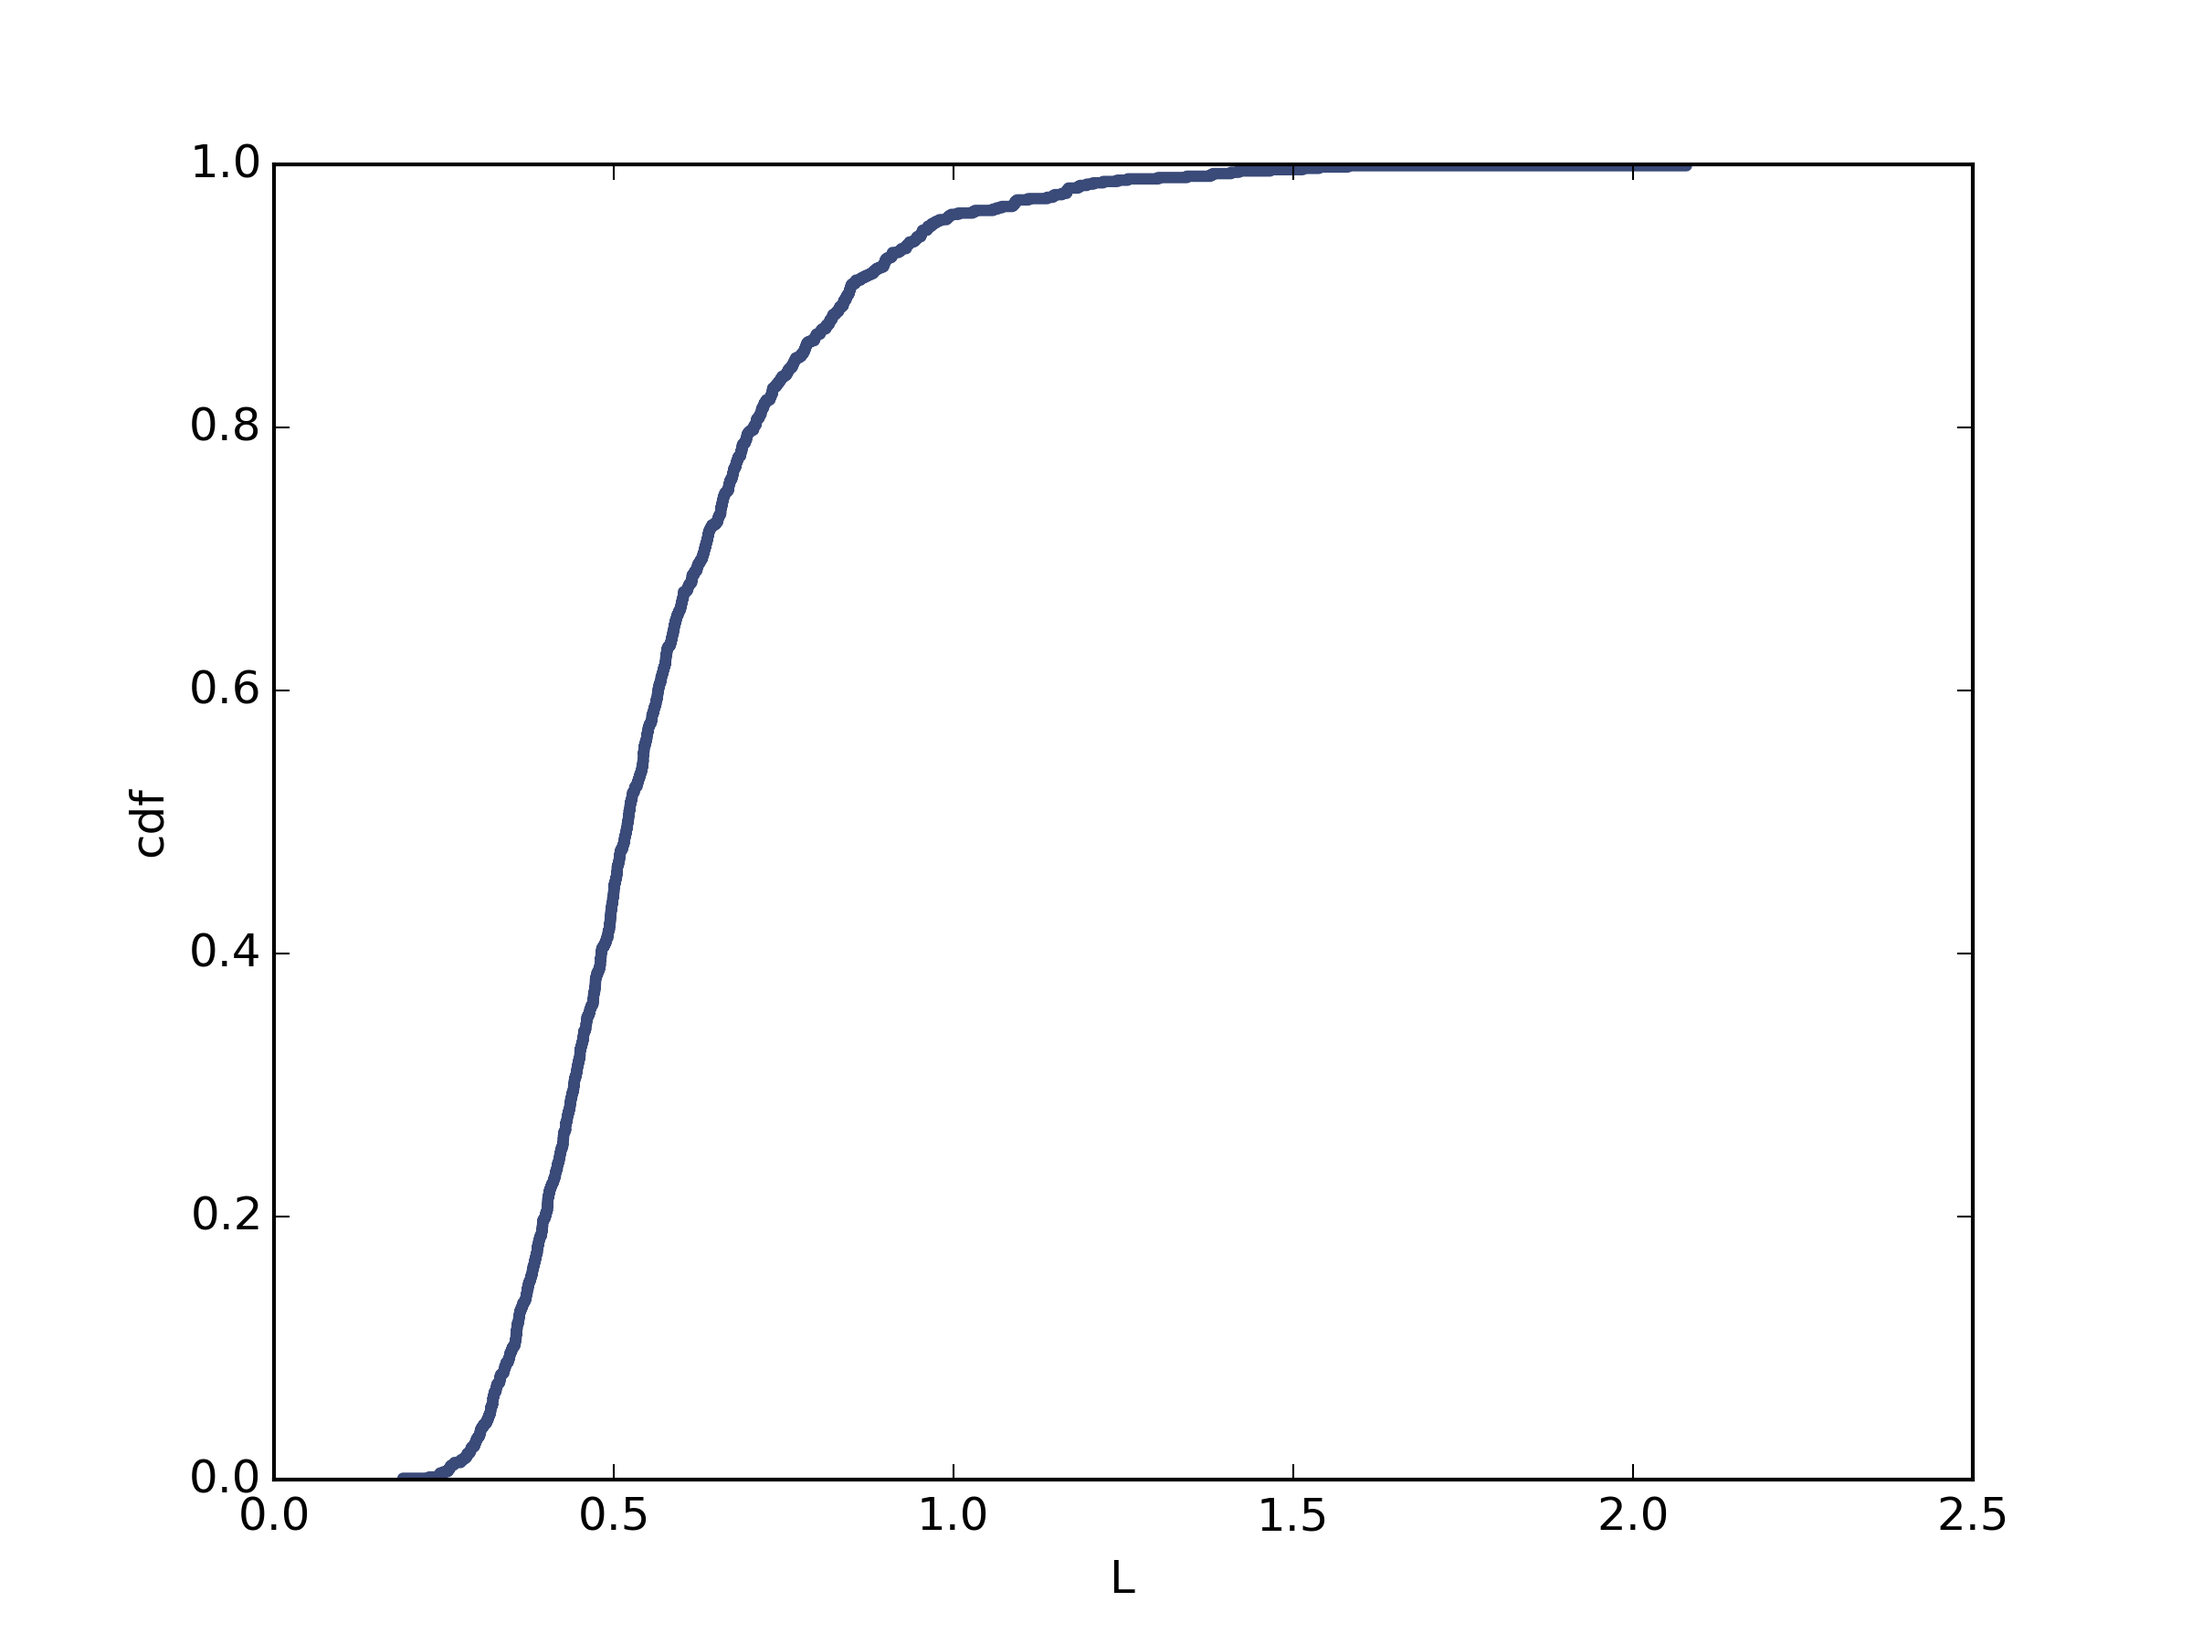
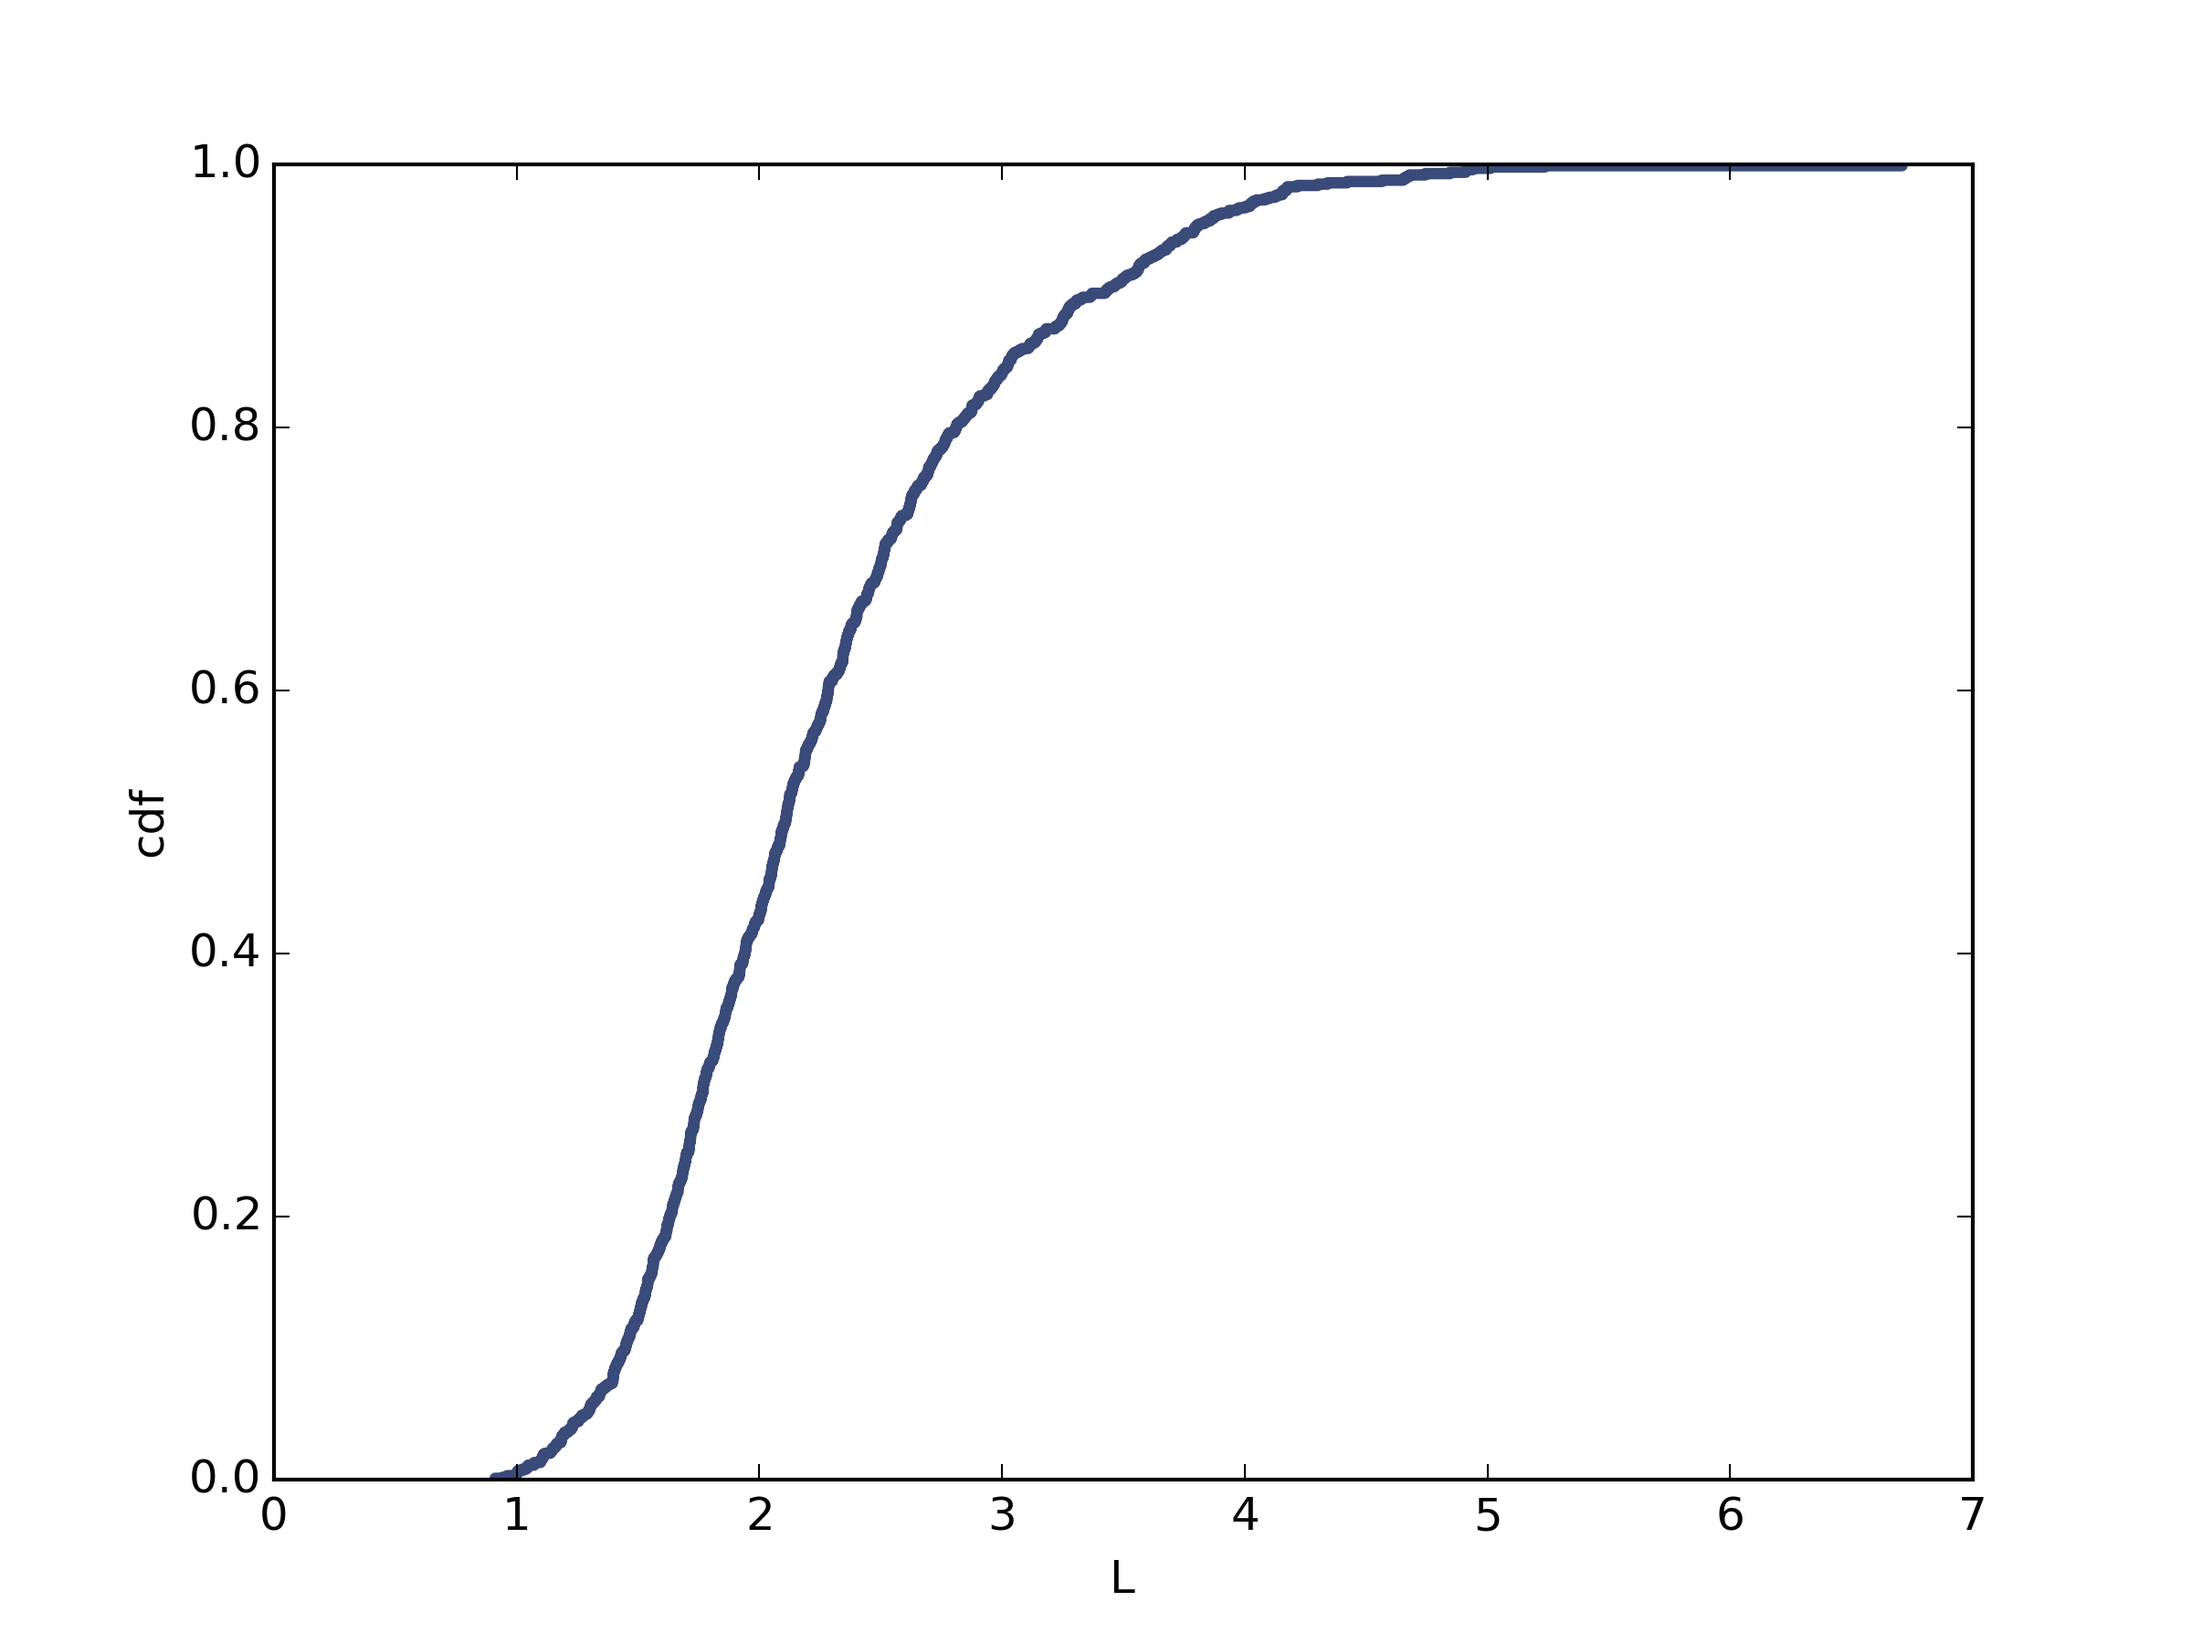
editing ans

diff --git a/statistics/8-2-sampling_dist.md b/statistics/8-2-sampling_dist.md
@@ -1,4 +1,7 @@
 [Think Stats Chapter 8 Exercise 2](http://greenteapress.com/thinkstats2/html/thinkstats2009.html#toc77) (scoring)
->> This investigates how to 
 
->> <img src="https://github.com/jstnstwrt/dsp/blob/master/img/figure_ex8_2.png" title="Figure comparing a probability mass funcstion and a cumulative distribution function" alt="alt text" style="width:10%;" >
+>> We investigate sampling distributions of the L estimator of the lambda parameter of the exponential distribution with a lambda parameter of 2. We randomly sample the exponential distribution with a sample size of 10 and then compute the L, one divided by the mean of the sample. By simulating this process 1000 times, we find the sampling distribution for L, plotted in the first figure below. We then found the standard error of the estimate, RSME = 0.907, and a confidence interval for the sample, (1.235, 3.838). We also demonstrate that the estimator can be improved (i.e., decreased deviation from the true value) by increasing the sample size in each iteration of the simulation. We plot the standard error of the estimate against the sample size in the next polt below and we can see that the standard error decreases as the sample size increases.
+
+>> <img src="https://github.com/jstnstwrt/dsp/blob/master/img/figure_ex8_2a.png" title="Figure comparing a probability mass funcstion and a cumulative distribution function" alt="alt text" style="width:10%;" >
+
+>> <img src="https://github.com/jstnstwrt/dsp/blob/master/img/figure_ex8_2b.png" title="Figure comparing a probability mass funcstion and a cumulative distribution function" alt="alt text" style="width:10%;" >
